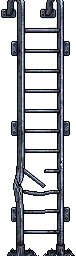
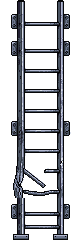
Leiter streng von vorn, Anhänger mit Leiter statt Treppe (#035)
Claude-Session: https://claude.ai/code/session_01DEYRZv4Nv6A49u7JGnmoch

diff --git a/game/play/camp.js b/game/play/camp.js
@@ -676,6 +676,9 @@ export class Camp {
     const s = this.scene, R = this.C.rig || {}, in1 = u.in0 + u.cell * u.places, edge = Math.min(s.T * 0.75, (in1 - u.in0) / 2);
     const x = Math.min(Math.max(u.in0 + (in1 - u.in0) * (R.groundLadderAt ?? 92) / 100, u.in0 + edge), in1 - edge), top = u.floorY, bottom = this.ground;
     // a folding metal stair (Camp › Gemütlichkeit › Klapptreppe, Daniel 13.11.2026): its landing reaches the container's floor
+    // #035 (Daniel: „die Treppen für den LKW-Trailer durch Leitern ersetzen“): a container on its chassis gets a ladder
+    const art = u.chassis && ladderArt(s, x - s.T / 2, x + s.T / 2, top, bottom, { depth: -18 });
+    if (art) { this.rigObjs.push(art); s.ladders.push({ cx: x, x0: x - s.T / 2, x1: x + s.T / 2, top, bottom, rig: true, ground: true }); return; }
     const info = this.C.stairs?.look && s.assetInfo(this.C.stairs.look);
     if (info) {
       s.textures.get(info.key).setFilter(NEAREST());

diff --git a/tools/ladder_parts.py b/tools/ladder_parts.py
@@ -1,0 +1,64 @@
+#!/usr/bin/env python3
+"""Ladder strip (#034/#035): the middle and the broken piece come from the PixelLab ladder (strict front view), the top and the
+bottom end are rebuilt from its rails in code, because the generated ones were drawn in perspective (Daniel: „nicht orthogonal,
+besonders der oberste Teil“). Writes assets/ladders/ladder_steel.png, 76 px wide:
+  rows   0– 38  top: rails straight up with round caps, a mounting plate
+  rows  38–118  middle (repeats): mounting plate + 4 rungs, from the picture
+  rows 118–198  broken piece, from the picture
+  rows 198–240  bottom: rails, one rung, flat foot plates
+Run: python3 tools/ladder_parts.py
+"""
+from pathlib import Path
+import numpy as np
+from PIL import Image
+
+ROOT = Path(__file__).resolve().parent.parent / 'projects/nomadgirl/assets/ladders'
+src = np.array(Image.open(ROOT / 'source/ladder_steel.png').convert('RGBA'))[:, 24:100]   # 76 wide like before
+W = src.shape[1]
+OUT = '#060608'
+INK = np.array([6, 6, 8, 255], np.uint8)
+
+mid = src[38:118].copy()
+broken = src[118:198].copy()
+rails_row = src[60].copy()          # a row between two rungs and outside the plates: just the two rails
+plate = src[41:56].copy()           # the mounting plate rows (plates left and right of the rails + rails)
+rung = src[68:74].copy()            # one rung with the rails (no plate beside it)
+
+opaque = rails_row[:, 3] > 0
+cols = np.where(opaque)[0]
+# the two rails: runs of opaque columns
+runs, start = [], cols[0]
+for a, b in zip(cols, cols[1:]):
+    if b != a + 1: runs.append((start, a)); start = b
+runs.append((start, cols[-1]))
+rails = [r for r in runs if r[1] - r[0] >= 2][:2]
+
+def body(h):
+    return np.repeat(rails_row[None, :, :], h, axis=0)
+
+# top: 38 rows of rails, a plate at rows 14–29, caps at the very top (outline, light, rail colours)
+top = body(38)
+top[14:14 + plate.shape[0]] = plate
+for x0, x1 in rails:
+    top[0:2, :][:, x0:x1 + 1] = 0               # rounded: the corners fall away
+    top[0, x0 + 1:x1] = INK
+    top[1, x0:x1 + 1] = INK
+    top[2, x0 + 1:x1] = rails_row[x0 + 1:x1]
+    top[2, x0] = INK; top[2, x1] = INK
+
+# bottom: 42 rows: rails, a plate, a rung, flat foot plates (5 rows, 3 px wider than the rail on both sides)
+bottom = body(42)
+bottom[6:6 + plate.shape[0]] = plate
+bottom[26:26 + rung.shape[0]] = rung
+light, mid_c, dark = np.array([179, 185, 209, 255], np.uint8), np.array([109, 117, 141, 255], np.uint8), np.array([74, 84, 98, 255], np.uint8)
+for x0, x1 in rails:
+    a, b = max(0, x0 - 4), min(W - 1, x1 + 4)
+    bottom[36:42, a:b + 1] = INK
+    bottom[37, a + 1:b] = light
+    bottom[38:40, a + 1:b] = mid_c
+    bottom[40, a + 1:b] = dark
+    for bx in (a + 2, b - 2): bottom[38, bx] = INK   # bolts
+
+strip = np.concatenate([top, mid, broken, bottom], axis=0)
+Image.fromarray(strip).save(ROOT / 'ladder_steel.png')
+print('ladder_steel', strip.shape[1], 'x', strip.shape[0], 'rails', rails)

diff --git a/docs/features/world.md b/docs/features/world.md
@@ -15,3 +15,5 @@ Phaser, Raum-Layouts, Hintergrund und Wetter, Kamera, Spawn-Punkt, Van, Testraum
 
 - **Spiel › Leitern:** Leiter-Bild (grauer senkrechter Streifen) und seine Teile in Bildzeilen: Anfang (0–38, Haken), Mitte (38–118, wiederholt: Halteplatte + 4 Sprossen), kaputtes Stück (118–198), Ende (198–256, Fußplatten); Breite in % einer Kachel (125), Kaputt % je Leiter (35, ab 3 Kacheln Höhe, fest je Ort), Färbung (Tint, weiß = grau), Färbung der Seilwinde (Fatbird).
 - `game/play/ladder_art.js` › `ladderArt(scene, x0, x1, top, bottom, { depth, tint, broken })`: baut die Leiter je Höhe auf einer Leinwand in Bildauflösung (gecacht), die Haken ragen über die Oberkante. Benutzt von POI-Räumen (`scene.js`, `art.js` zeichnet `H` dann nicht mehr aus Code), den Leitern im Camp-Rig (`stackLadder`) und den Mega-Rigs (`ladders()`, Seilwinde in Rost). Ohne Bild bleibt alles beim Code.
+- **Orthogonal nachgebessert** (#035, Daniel: „die Leiter ist nicht orthogonal, besonders der oberste Teil“): Anfang und Ende stammen jetzt aus Code (`tools/ladder_parts.py`): Holme gerade nach oben mit flacher Kappe und Halteplatte, unten flache Fußplatten; Mitte und kaputtes Stück bleiben aus dem PixelLab-Bild. Streifen 76 × 240 (Ende 198–240).
+- **Anhänger mit Leiter** (#035, Daniel: „die Treppen für den LKW-Trailer durch Leitern ersetzen“): Container auf dem Fahrgestell bekommen statt der Klapptreppe eine Leiter (`groundLadder`); die Klapptreppe bleibt für Anhänger ohne Fahrgestell.

diff --git a/docs/changelog.md b/docs/changelog.md
@@ -2,6 +2,7 @@
 
 Verlauf: was wann gebaut wurde (früher `CLAUDE.md` › Stand). Neue Einträge oben.
 
+- 15.11.2026: **Leiter orthogonal, Anhänger mit Leiter** (#035): Anfang und Ende der Leiter streng von vorn aus Code; Container-Anhänger auf dem Fahrgestell haben eine Leiter statt der Klapptreppe.
 - 15.11.2026: **Synergie-Vorschau, Reihenschaltung, neue Leitern** (#034): beim Platzieren zeigt jeder Platz seinen Bonus wie bei Dorfromantik; gleiche Werkstätten in Reihe und volle Container geben dicke Boni; alle Leitern aus einer PixelLab-Stahlleiter mit Haken, Halteplatten, kaputten Sprossen und Fußplatten, einfärbbar.
 - 15.11.2026: **Synergien** (#033): Werkstätten, die nebeneinander (auch über Containergrenzen, Stapel und das Mega-Rig-Raster) passend stehen, arbeiten schneller, machen mehr Strom oder geben stärkere Buffs; voller Bonus, wenn alle angrenzenden Plätze passen; leuchtende Verbindungen im Rig. Kühlraum mit neuem, flachem Bild.
 - 15.11.2026: **Werkstätten-Paket** (#033): Bilder für Motorraum, Zelle, Reaktor; neu Heavy-Duty-Werkbank (alle Rig-Teile), Auftragsbüro (Schwarzes Brett als Raum), Waffenkammer mit Display-Boards (Waffen hängen sichtbar); alte Waffenkammer heißt Waffenwerkbank.
